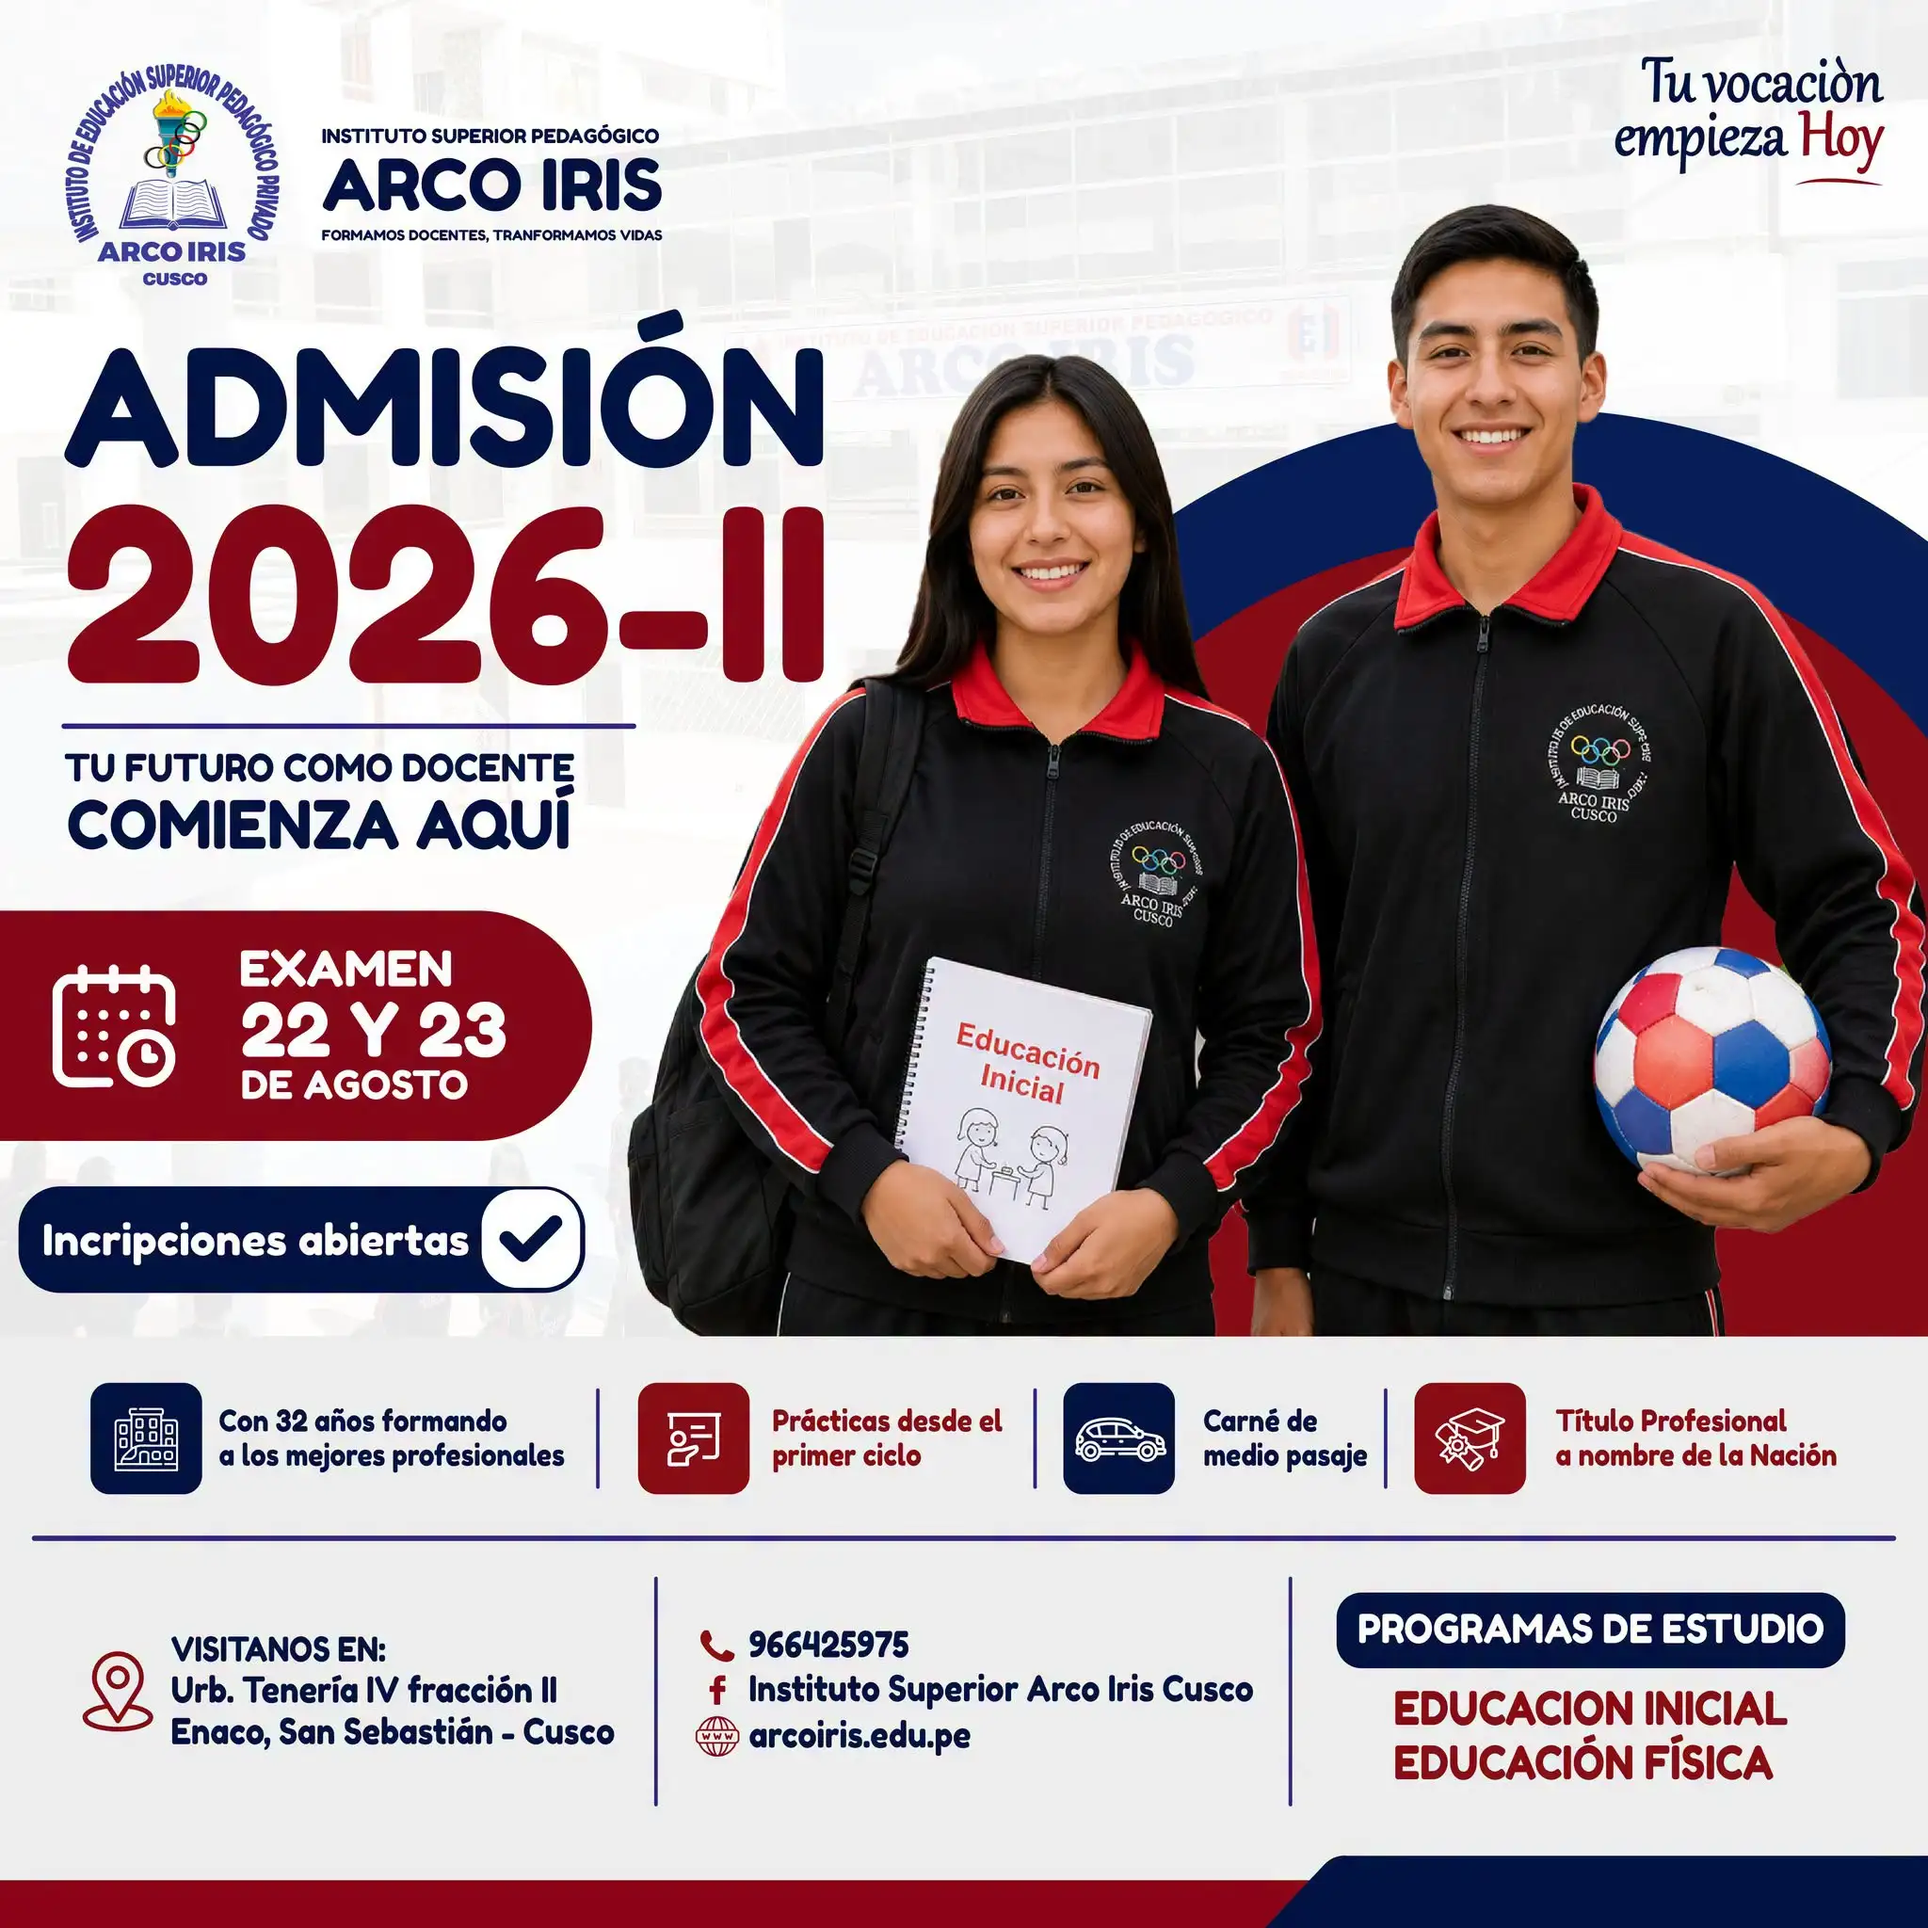
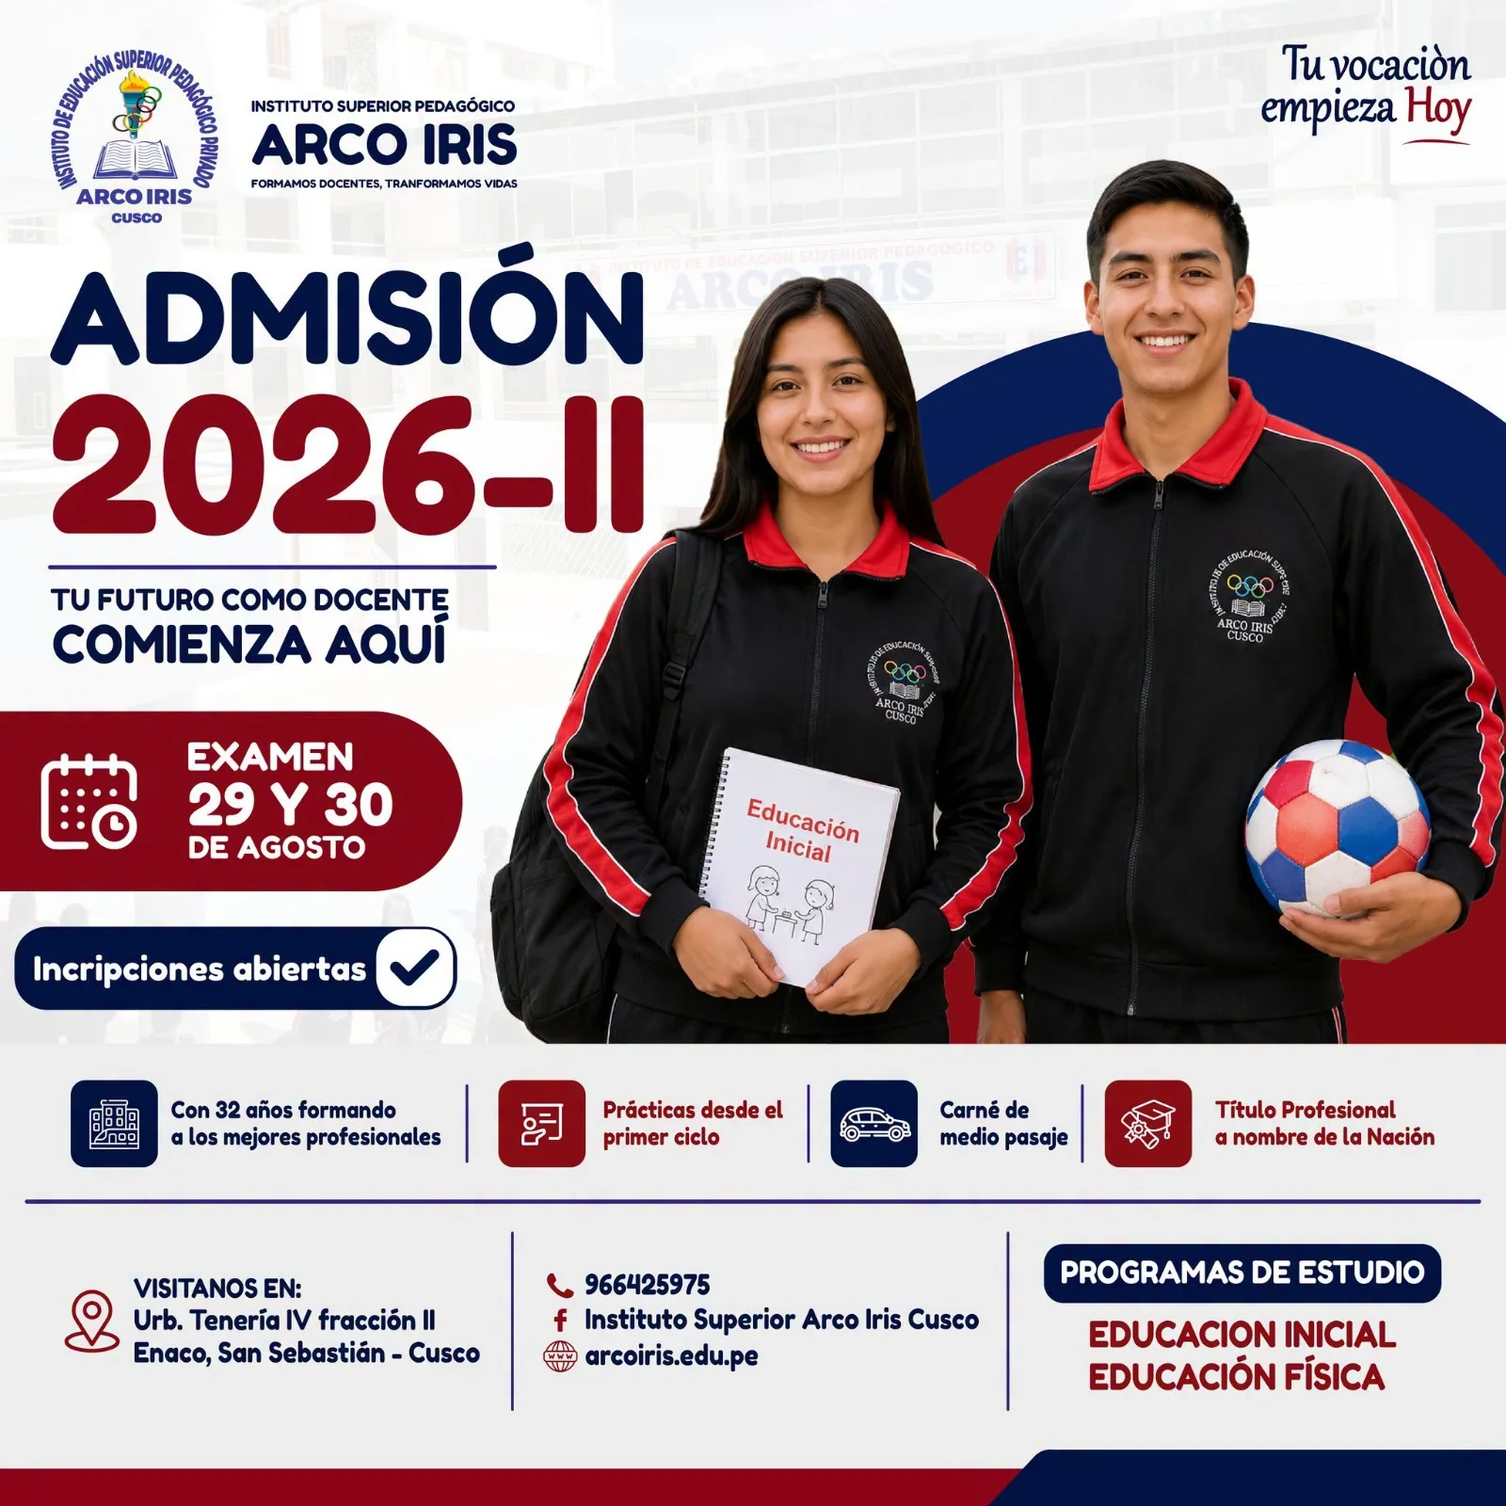
@Luishanco20

Changed region(s): [[0.1562, 0.5, 0.25, 0.5625], [0.0625, 0.75, 0.0938, 0.7812]]

diff --git a/src/Pages/PortalResultados.jsx b/src/Pages/PortalResultados.jsx
@@ -1,0 +1,181 @@
+import React, { useState, useEffect } from "react";
+import {
+  Box, Container, Typography, Paper, MenuItem, Select, FormControl, 
+  Button, Grid, Dialog, DialogTitle, DialogContent, IconButton
+} from "@mui/material";
+import AssignmentTurnedInRoundedIcon from '@mui/icons-material/AssignmentTurnedInRounded';
+import PictureAsPdfRoundedIcon from '@mui/icons-material/PictureAsPdfRounded';
+import CloseRoundedIcon from '@mui/icons-material/CloseRounded';
+import AOS from "aos";
+import "aos/dist/aos.css";
+
+// =======================================================================
+// BASE DE DATOS DE RESULTADOS (ENLACES A GOOGLE DRIVE)
+// =======================================================================
+const baseDatosResultados = {
+  "simulacro-2026-ii": {
+    id: "simulacro-2026-ii",
+    titulo: "Examen Simulacro 2026-II",
+    fechaPublicacion: "24 de Agosto, 2026",
+    descripcion: "Resultados generales del examen de simulacro para los programas de Educación Física y Educación Inicial.",
+    estado: "publicado",
+    // IMPORTANTE: Usa "preview" al final del enlace de Drive en lugar de "view"
+    driveEnlace: "https://drive.google.com/file/d/1Duov2_E_DELGwPaVyD69onEZFGO2AIiT/preview" 
+  },
+  "admision-2026-ii": {
+    id: "admision-2026-ii",
+    titulo: "Examen de Admisión General 2026-II",
+    fechaPublicacion: "Próximamente",
+    descripcion: "Los resultados oficiales del examen de admisión se publicarán en esta sección una vez culminado el proceso de evaluación.",
+    estado: "pendiente",
+    driveEnlace: ""
+  }
+};
+
+export default function PortalResultados() {
+  const [examenSeleccionado, setExamenSeleccionado] = useState("simulacro-2026-ii");
+  const [modalOpen, setModalOpen] = useState(false);
+
+  useEffect(() => {
+    AOS.init({ duration: 800, once: true });
+    window.scrollTo(0, 0);
+  }, []);
+
+  const handleExamenChange = (event) => {
+    setExamenSeleccionado(event.target.value);
+  };
+
+  const examenData = baseDatosResultados[examenSeleccionado];
+
+  return (
+    <Box sx={{ bgcolor: "#F4F7FA", minHeight: "100vh", pb: 12 }}>
+      
+      {/* 1. HERO SECTION */}
+      <Box sx={{ 
+        bgcolor: "#001F3F", pt: { xs: 12, md: 15 }, pb: { xs: 8, md: 12 }, 
+        borderBottom: "6px solid #C59B27", textAlign: "center", position: "relative",
+        backgroundImage: "radial-gradient(circle at center, #002b5e 0%, #001F3F 100%)"
+      }}>
+        <Container maxWidth="md" data-aos="zoom-in">
+          <Box sx={{ display: "inline-block", bgcolor: "rgba(197, 155, 39, 0.15)", px: 3, py: 1, borderRadius: "30px", mb: 3 }}>
+            <Typography variant="overline" sx={{ color: "#FBBF24", fontWeight: 900, letterSpacing: 2 }}>
+              PORTAL INSTITUCIONAL
+            </Typography>
+          </Box>
+          <Typography variant="h2" fontWeight="900" color="#fff" mb={2} sx={{ fontSize: { xs: "2.2rem", md: "3.5rem" }, textTransform: "uppercase" }}>
+            Resultados de Exámenes
+          </Typography>
+          <Typography variant="h6" color="#CBD5E1" fontWeight="400" sx={{ fontSize: { xs: "1rem", md: "1.2rem" }, px: 2 }}>
+            Consulta las actas y resoluciones de calificaciones de manera oficial y transparente.
+          </Typography>
+        </Container>
+      </Box>
+
+      <Container maxWidth="md" sx={{ mt: -6, position: "relative", zIndex: 3 }}>
+        
+        {/* 2. PANEL DE SELECCIÓN */}
+        <Paper elevation={0} sx={{ p: { xs: 3, md: 5 }, borderRadius: "24px", bgcolor: "#fff", border: "1px solid #E2E8F0", boxShadow: "0 20px 40px rgba(0,0,0,0.08)" }} data-aos="fade-up">
+          
+          <Typography variant="overline" color="#64748B" fontWeight="900" display="block" mb={1}>
+            PASO 1: SELECCIONA LA EVALUACIÓN
+          </Typography>
+          
+          <FormControl fullWidth variant="outlined" sx={{ mb: 5 }}>
+            <Select
+              value={examenSeleccionado}
+              onChange={handleExamenChange}
+              displayEmpty
+              sx={{ 
+                borderRadius: "16px", bgcolor: "#F8FAFC", fontWeight: "900", color: "#003366", 
+                fontSize: { xs: "1.1rem", md: "1.2rem" }, "& .MuiSelect-select": { py: 2 } 
+              }}
+            >
+              {Object.values(baseDatosResultados).map((examen) => (
+                <MenuItem key={examen.id} value={examen.id} sx={{ fontWeight: "bold", py: 1.5 }}>
+                  {examen.titulo}
+                </MenuItem>
+              ))}
+            </Select>
+          </FormControl>
+
+          <Box sx={{ textAlign: "center", p: { xs: 3, md: 5 }, bgcolor: examenData.estado === "publicado" ? "#F8FAFC" : "#FFFBEB", borderRadius: "20px", border: "1px dashed", borderColor: examenData.estado === "publicado" ? "#CBD5E1" : "#F59E0B" }}>
+            <AssignmentTurnedInRoundedIcon sx={{ fontSize: 60, color: examenData.estado === "publicado" ? "#10B981" : "#F59E0B", mb: 2 }} />
+            
+            <Typography variant="h5" fontWeight="900" color="#0F172A" mb={1}>
+              {examenData.titulo}
+            </Typography>
+            
+            <Typography variant="body1" color="#64748B" mb={1}>
+              {examenData.descripcion}
+            </Typography>
+            
+            <Typography variant="subtitle2" color={examenData.estado === "publicado" ? "#003366" : "#B45309"} fontWeight="bold" mb={4}>
+              Fecha de publicación: {examenData.fechaPublicacion}
+            </Typography>
+
+            {examenData.estado === "publicado" ? (
+              <Button 
+                onClick={() => setModalOpen(true)}
+                variant="contained" 
+                size="large"
+                startIcon={<PictureAsPdfRoundedIcon />}
+                sx={{ 
+                  borderRadius: "16px", bgcolor: "#DC2626", fontWeight: "900", px: 4, py: 1.5, textTransform: "none", fontSize: "1.1rem",
+                  boxShadow: "0 10px 20px rgba(220, 38, 38, 0.25)", "&:hover": { bgcolor: "#B91C1C", transform: "translateY(-3px)" }, transition: "all 0.3s"
+                }}
+              >
+                Abrir Documento Oficial
+              </Button>
+            ) : (
+              <Button 
+                disabled
+                variant="contained" 
+                size="large"
+                sx={{ borderRadius: "16px", fontWeight: "900", px: 4, py: 1.5, textTransform: "none", fontSize: "1.1rem" }}
+              >
+                Resultados No Disponibles
+              </Button>
+            )}
+          </Box>
+        </Paper>
+
+      </Container>
+
+      {/* 3. MODAL DEL VISOR DE PDF (GOOGLE DRIVE) */}
+      <Dialog 
+        open={modalOpen} 
+        onClose={() => setModalOpen(false)} 
+        maxWidth="lg" 
+        fullWidth
+        PaperProps={{ sx: { borderRadius: "16px", overflow: "hidden", height: "90vh", bgcolor: "#f1f1f1" } }}
+      >
+        <DialogTitle sx={{ bgcolor: "#001F3F", color: "#fff", p: 2, display: "flex", justifyContent: "space-between", alignItems: "center" }}>
+          <Typography variant="subtitle1" fontWeight="bold" display="flex" alignItems="center" gap={1}>
+            <PictureAsPdfRoundedIcon sx={{ color: "#FCA5A5" }} /> {examenData.titulo}
+          </Typography>
+          <IconButton onClick={() => setModalOpen(false)} sx={{ color: "#fff", bgcolor: "rgba(255,255,255,0.1)", "&:hover": { bgcolor: "rgba(255,255,255,0.2)" } }}>
+            <CloseRoundedIcon />
+          </IconButton>
+        </DialogTitle>
+        
+        <DialogContent sx={{ p: 0, overflow: "hidden" }}>
+          {examenData.driveEnlace ? (
+            <iframe 
+              src={examenData.driveEnlace} 
+              title="Visor PDF Resultados"
+              width="100%" 
+              height="100%" 
+              style={{ border: "none" }}
+              allow="autoplay"
+            />
+          ) : (
+            <Box sx={{ height: "100%", display: "flex", alignItems: "center", justifyContent: "center" }}>
+              <Typography color="error" fontWeight="bold">Error: El enlace del documento no está configurado.</Typography>
+            </Box>
+          )}
+        </DialogContent>
+      </Dialog>
+
+    </Box>
+  );
+}

diff --git a/src/Components/ModalAnuncios.jsx b/src/Components/ModalAnuncios.jsx
@@ -13,7 +13,7 @@ import CloseIcon from "@mui/icons-material/Close";
 import ArrowBackIosNewRoundedIcon from "@mui/icons-material/ArrowBackIosNewRounded";
 import ArrowForwardIosRoundedIcon from "@mui/icons-material/ArrowForwardIosRounded";
 
-import ad1 from "../assets/Anuncios/resultados_2026_1.webp";
+import ad1 from "../assets/Anuncios/resultados_simulacro-2026-2.webp";
 import ad2 from "../assets/Anuncios/laboral.webp";
 import ad3 from "../assets/Anuncios/apertura2026_1.webp";
 import ad4 from "../assets/Anuncios/campeon.webp";
@@ -34,18 +34,28 @@ export default function ModalAnuncios({
   const [currentIndex, setCurrentIndex] = useState(0);
   const [isPaused, setIsPaused] = useState(false);
 
+  // ARREGLO DE ANUNCIOS ACTUALIZADO
   const anuncios = [
     {
+      img: ad1,
+      link: "/resultados",
+      btnText: "Ver Resultados",
+    },
+    {
       img: ad7,
+    },
+    {
+      img: ad5, // Imagen del examen (simulacro / admisión)
+     //  link: "/resultados", Asegúrate de tener esta ruta creada en tu App.js / Router
+      // btnText: "Ver Resultados",
+    },
+    {
+      img: ad4,
     },
     // {
     //   img: ad6,
     // },
-    // {
-    //   img: ad1,
-    //   link: "/admision",
-    //   btnText: "Ver Resultados",
-    // },
+    
     // {
     //   img: ad2,
     //   link: "/eventos",
@@ -53,13 +63,6 @@ export default function ModalAnuncios({
     // {
     //   img: ad3,
     // },
-    {
-      img: ad4,
-    },
-    // {
-    //   img: ad5,
-    // },
-    
   ];
 
   useEffect(() => {
@@ -68,6 +71,7 @@ export default function ModalAnuncios({
     const timer = setTimeout(() => setOpen(true), delaySegundos * 1000);
     return () => clearTimeout(timer);
   }, [location.pathname, delaySegundos]);
+  
   useEffect(() => {
     if (location.pathname !== "/") {
       setOpen(false);
@@ -99,13 +103,13 @@ export default function ModalAnuncios({
           borderRadius: { xs: "16px", md: "24px" },
           bgcolor: "#000",
           maxWidth: "750px",
-  width: "90vw",
-  "@media (min-width:1024px)": {
-    width: "500px",
-  },
-  "@media (min-width:1440px)": {
-    width: "900px",
-  },
+          width: "90vw",
+          "@media (min-width:1024px)": {
+            width: "500px",
+          },
+          "@media (min-width:1440px)": {
+            width: "900px",
+          },
           height: { xs: "auto", md: "80vh" },
           aspectRatio: { xs: "1 / 1", md: "auto" },
           maxHeight: { xs: "80vh", md: "90vh" },

diff --git a/src/App.jsx b/src/App.jsx
@@ -22,15 +22,18 @@ import Servicios from "./Pages/Servicios";
 import NotFound from "./Components/NotFound";
 import ScrollToTop from "./Components/ScrollToTop";
 
-// --- IMPORTACIONES DE CONVOCATORIAS ---
+// --- IMPORTACIONES DE CONVOCATORIAS Y NUEVAS PÁGINAS ---
 import Convocatorias from "./Pages/Convocatorias";
 import ConvocatoriaDocente from "./Pages/ConvocatoriaDocente";
-import ConvocatoriaDocente2 from "./Pages/Docentes2026II"
+import ConvocatoriaDocente2 from "./Pages/Docentes2026II";
 import HorarioLaboratorio from "./Pages/HorarioLaboratorio";
 import TesisSustentadas from "./Pages/TesisSustentadas";
 import MuralAcademico from "./Pages/MuralAcademico";
 import GaleriaInstitucional from "./Pages/GaleriaInstitucional";
-import VerificacionArbitros from './pages/VerificacionArbitros'; // Ajusta la ruta a donde guardaste el archivo
+import VerificacionArbitros from './Pages/VerificacionArbitros';
+
+// Importamos la nueva página de Resultados con el nombre exacto
+import PortalResultados from './Pages/PortalResultados'; 
 
 const DocumentosGestion = lazy(() => import("./Pages/Documentos_gestion"));
 const UnidadInvestigacion = lazy(() => import("./Pages/Unidad_investigacion"));
@@ -61,7 +64,7 @@ export default function App() {
           <Route path="ReservaComp" element={<ReservaComp />} />
           <Route path="AdminReserva" element={<AdminReservaComp />} />
           
-          {/* --- NUEVAS RUTAS DE CONVOCATORIAS --- */}
+          {/* --- NUEVAS RUTAS --- */}
           <Route path="convocatorias" element={<Convocatorias />} />
           <Route path="convocatorias/docentes-2026" element={<ConvocatoriaDocente />} />
           <Route path="convocatorias/docentes-2026-II" element={<ConvocatoriaDocente2 />} />
@@ -71,7 +74,9 @@ export default function App() {
           <Route path="galeria" element={<GaleriaInstitucional />} />
           <Route path="verificar-arbitros" element={<VerificacionArbitros />} />
           
-
+          {/* Ruta del nuevo portal de Resultados */}
+          <Route path="resultados" element={<PortalResultados />} />
+          
           {/* RUTAS CON CARGA PEREZOSA (LAZY) */}
           <Route
             path="Documentos_gestion"
